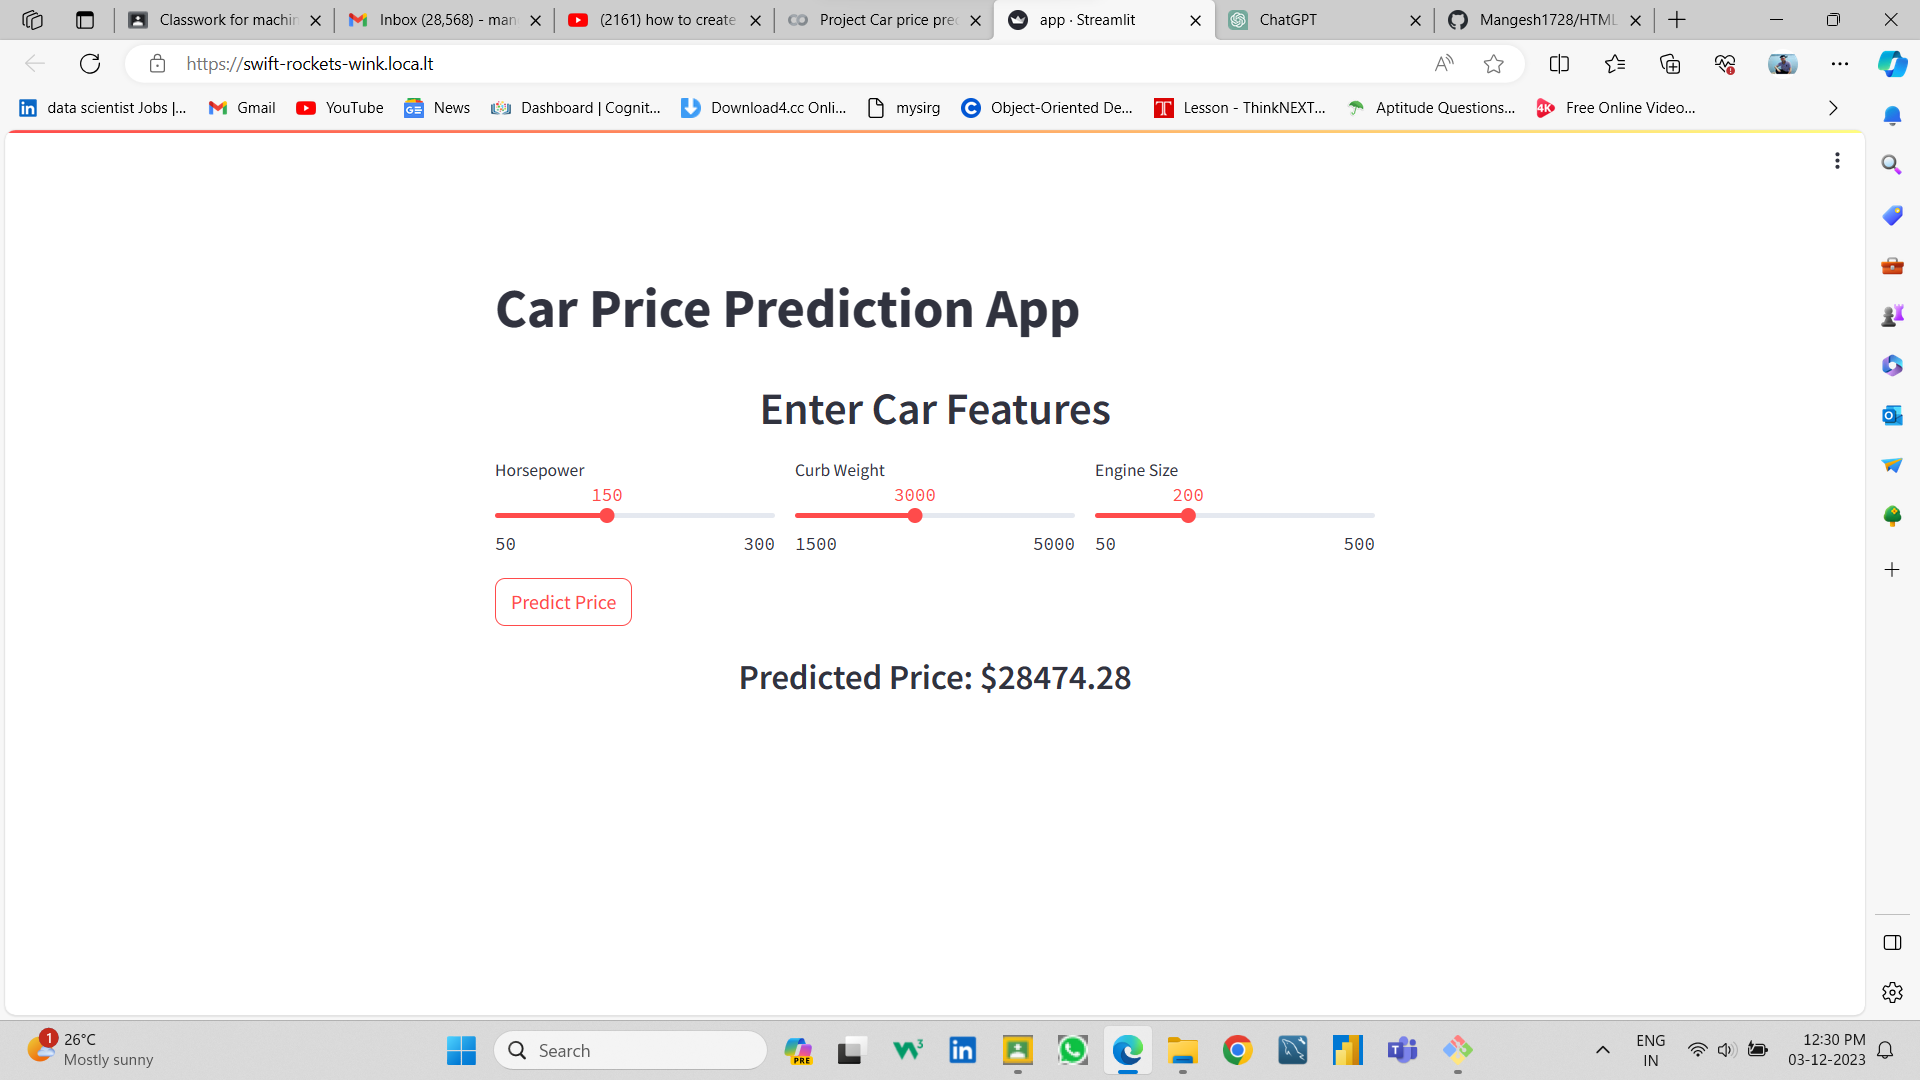
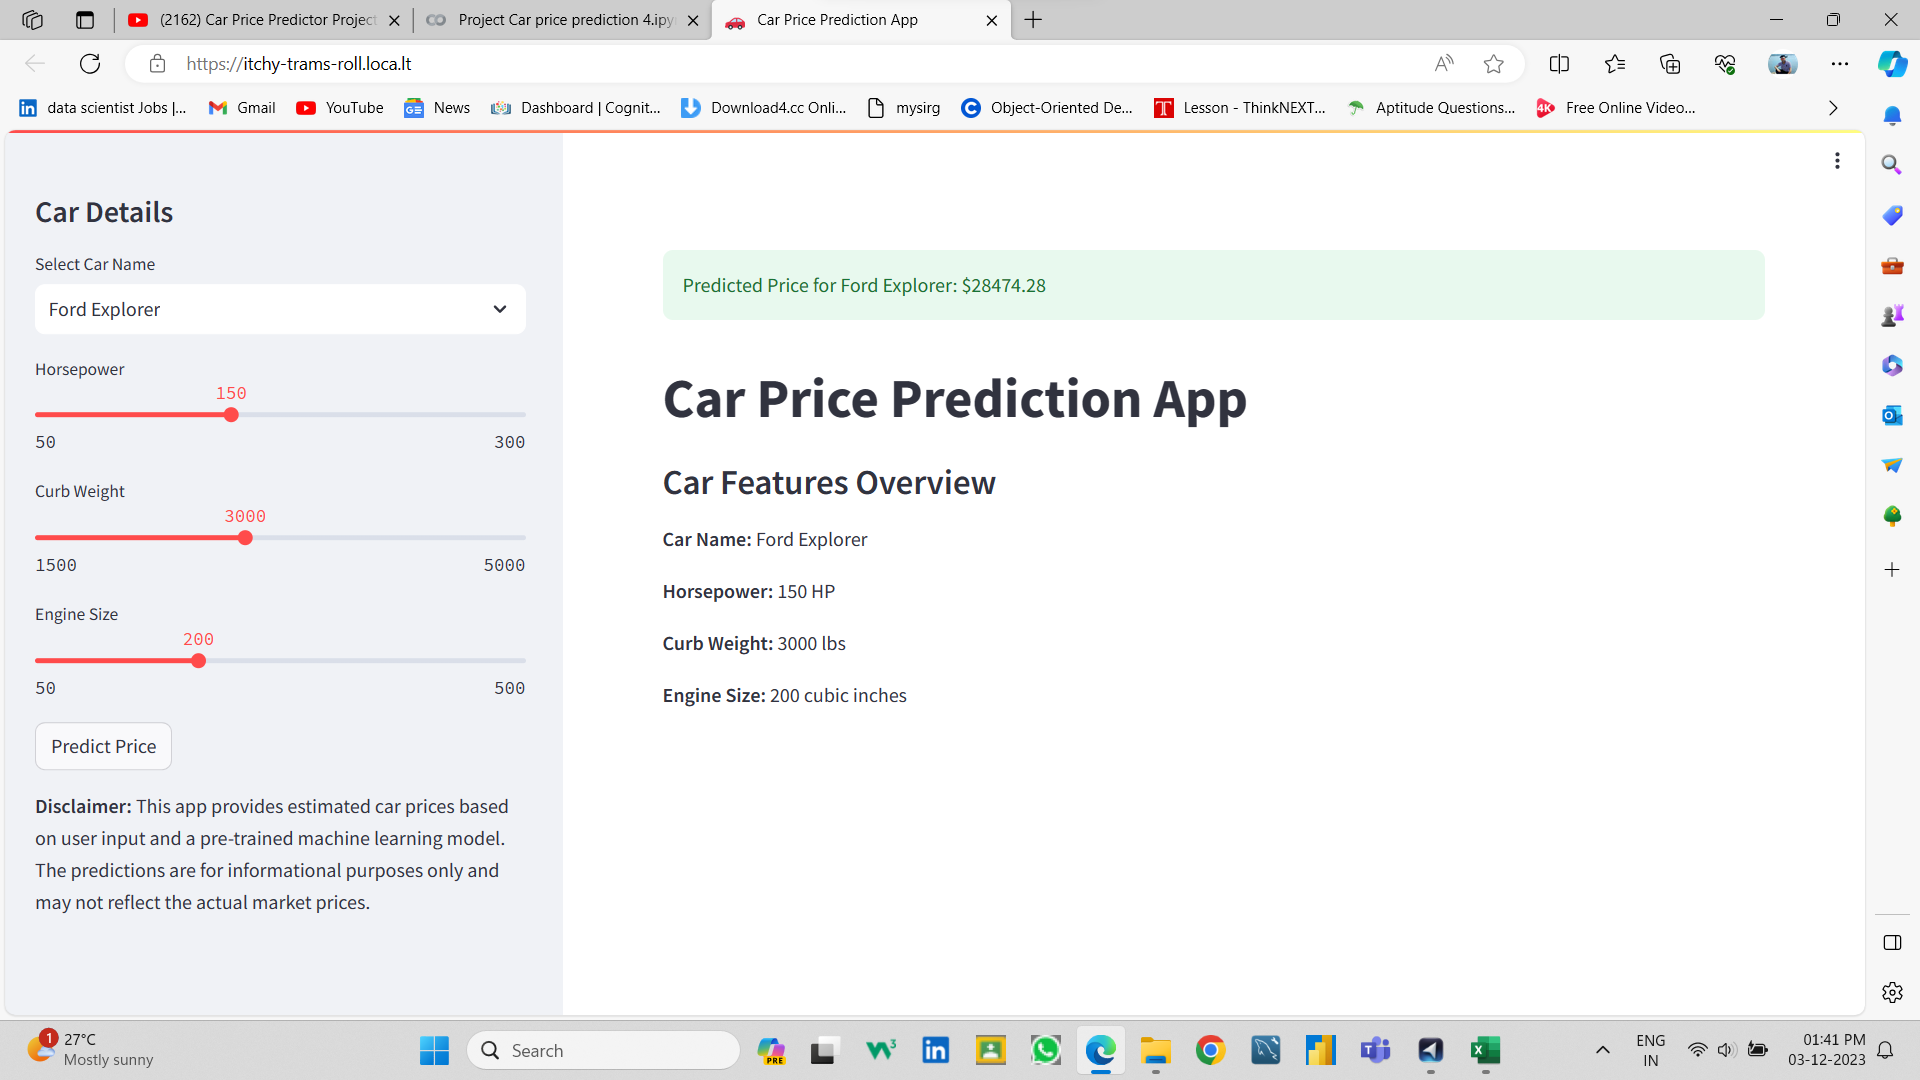
first commit

diff --git a/app.py b/app.py
@@ -18,23 +18,52 @@ def predict_price(horsepower, curbweight, enginesize):
 
     return prediction[0]
 
+# Sample car names for the dropdown list
+car_names = [
+    "Toyota Camry", "Honda Accord", "Ford Mustang", "Chevrolet Malibu", "Tesla Model S",
+    "Nissan Altima", "BMW 3 Series", "Mercedes-Benz C-Class", "Audi A4", "Lexus ES",
+    "Volkswagen Passat", "Hyundai Sonata", "Subaru Outback", "Mazda6", "Kia Optima",
+    "Jeep Grand Cherokee", "Ford Explorer", "Toyota RAV4", "Honda CR-V", "Subaru Forester"
+]
+
 # Streamlit App
-st.title('Car Price Prediction App')
-st.markdown("<h2 style='text-align: center;'>Enter Car Features</h2>", unsafe_allow_html=True)
+st.set_page_config(
+    page_title="Car Price Prediction App",
+    page_icon="🚗",
+    layout="wide"
+)
 
-# Input form for user input (center-aligned)
-col1, col2, col3 = st.columns(3)
+# Sidebar with user input
+st.sidebar.title('Car Details')
+car_name = st.sidebar.selectbox('Select Car Name', car_names)
+horsepower = st.sidebar.slider('Horsepower', min_value=50, max_value=300, value=150)
+curbweight = st.sidebar.slider('Curb Weight', min_value=1500, max_value=5000, value=3000)
+enginesize = st.sidebar.slider('Engine Size', min_value=50, max_value=500, value=200)
 
-with col1:
-    horsepower = st.slider('Horsepower', min_value=50, max_value=300, value=150)
-
-with col2:
-    curbweight = st.slider('Curb Weight', min_value=1500, max_value=5000, value=3000)
-
-with col3:
-    enginesize = st.slider('Engine Size', min_value=50, max_value=500, value=200)
-
-# Predict button (center-aligned)
-if st.button('Predict Price'):
+# Predict button
+if st.sidebar.button('Predict Price'):
     prediction = predict_price(horsepower, curbweight, enginesize)
-    st.markdown(f"<h3 style='text-align: center;'>Predicted Price: ${prediction:.2f}</h3>", unsafe_allow_html=True)
+    st.success(f"Predicted Price for {car_name}: ${prediction:.2f}")
+
+# Main content area
+st.title('Car Price Prediction App')
+
+# Display car image or additional information if available
+# You can customize this section based on your specific requirements
+
+# Display additional information or insights about the car features
+st.subheader('Car Features Overview')
+st.markdown(f"**Car Name:** {car_name}")
+st.markdown(f"**Horsepower:** {horsepower} HP")
+st.markdown(f"**Curb Weight:** {curbweight} lbs")
+st.markdown(f"**Engine Size:** {enginesize} cubic inches")
+
+# You can add more sections or insights as needed
+
+# Display a disclaimer or additional information at the bottom
+st.sidebar.markdown(
+    """
+    **Disclaimer:** This app provides estimated car prices based on user input and a pre-trained machine learning model.
+    The predictions are for informational purposes only and may not reflect the actual market prices.
+    """
+)
